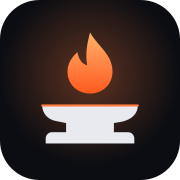
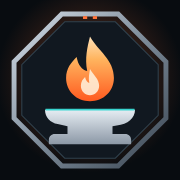
Redesign: novo ícone do app (chama e bigorna em placa octogonal), tela de entrada e cores do manifesto
Claude-Session: https://claude.ai/code/session_017MAjsVPUWpuwu7BGbmoDsb

diff --git a/web/src/styles.css b/web/src/styles.css
@@ -499,3 +499,11 @@ h2::before { content: ''; width: 14px; height: 2px; background: var(--accent); b
 .level-up .reward-big { font-size: 48px; }
 .title-plate { position: relative; z-index: 1; font-family: var(--font-display); clip-path: polygon(8px 0, 100% 0, 100% calc(100% - 8px), calc(100% - 8px) 100%, 0 100%, 0 8px); }
 @media (prefers-reduced-motion: reduce) { .beam { animation: none; } }
+
+/* Entrada */
+.auth-hero { display: flex; flex-direction: column; align-items: center; gap: 6px; margin-bottom: 14px; position: relative; }
+.auth-hero::before { content: ""; position: absolute; inset: -40px -20px auto; height: 220px; z-index: -1; pointer-events: none;
+  background: radial-gradient(closest-side, color-mix(in srgb, var(--accent) 22%, transparent), transparent); }
+.auth-hero img { clip-path: polygon(33.6% 6.2%, 66.4% 6.2%, 93.8% 33.6%, 93.8% 66.4%, 66.4% 93.8%, 33.6% 93.8%, 6.2% 66.4%, 6.2% 33.6%); }
+.auth-kicker { font-family: var(--font-mono); font-size: 11px; letter-spacing: .18em; text-transform: uppercase; color: var(--tech); margin-top: 6px; }
+.auth-word { font-family: var(--font-display); font-size: 40px; letter-spacing: .32em; margin: 0 0 0 .32em; line-height: 1.1; }

diff --git a/web/src/screens/Auth.tsx b/web/src/screens/Auth.tsx
@@ -43,9 +43,10 @@ export function AuthScreen() {
 
   return (
     <div className="screen no-tabs" style={{ minHeight: '100dvh', justifyContent: 'center' }}>
-      <div className="stack" style={{ alignItems: 'center', marginBottom: 8 }}>
-        <img src="/icon.svg" width={72} height={72} alt="" style={{ borderRadius: 18 }} />
-        <h1>Forja</h1>
+      <div className="auth-hero">
+        <img src="/icon.svg" width={104} height={104} alt="" />
+        <span className="auth-kicker">Sistema de evolução · 66 dias</span>
+        <h1 className="auth-word">FORJA</h1>
         <p className="muted center">Evolua na vida real. Seu personagem evolui junto.</p>
       </div>
 

diff --git a/web/vite.config.ts b/web/vite.config.ts
@@ -14,8 +14,8 @@ export default defineConfig({
         short_name: 'Forja',
         description: 'Construa hábitos reais e evolua seu personagem.',
         lang: 'pt-BR',
-        theme_color: '#0B0D12',
-        background_color: '#0B0D12',
+        theme_color: '#080C10',
+        background_color: '#080C10',
         display: 'standalone',
         orientation: 'portrait',
         start_url: '/',
